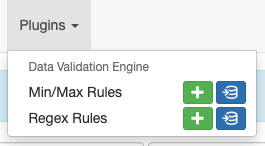
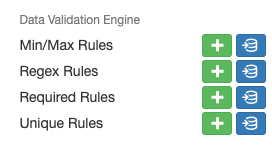
updated docs and release notes

diff --git a/docs/user/app_use_cases.md b/docs/user/app_use_cases.md
@@ -2,34 +2,21 @@
 
 ## General Usage
 
-The data validation engine plugin offers a set of user definable rules which are used to enforce business constraints on the data in Nautobot. These rules are tied to particular models and each rule is meant to enforce one aspect of a business use case. There are currently two supported rule types, regular expressions, and min/max numeric rules.
+The data validation engine app offers a set of user definable rules which are used to enforce business constraints on the data in Nautobot. These rules are tied to particular models and each rule is meant to enforce one aspect of a business use case.
+
+Supported rule types include:
+- Regular expression
+- Min/max value
+- Required fields
+- Unique values
 
 ![Dropdown](../images/dropdown.png)
 
 ## Use-cases and common workflows
 
-### Regular Expression Rules
-
-![Regex Rules List](../images/regex-rules-list.png)
-
-Each rule is defined with these fields:
-
-* name - A unique name for the rule.
-* enabled - A boolean to toggle enforcement of the rule on and off.
-* content type - The Nautobot model to which the rule should apply (device, site, etc.).
-* field - The name of the character based field on the model to which the regular expression is validated.
-* regular expression - The body of the regular expression used for validation.
-* error message - An optional error message to display to the use when validation fails. By default, a message indicating validation against the defined regular expression has failed is shown.
-
-![Regex Rules Edit](../images/regex-rules-edit.png)
-
-In this example, a device hostname validation rule has been created and prevents device records from being created or updated that do not conform to the naming standard.
-
-![Regex Rules Enforcement](../images/regex-rules-enforcement.png)
-
 ### Min/Max Rules
 
-![Min/Max List](../images/min-max-rules-list.png)
+![Min/Max Rules List](../images/min-max-rules-list.png)
 
 Each rule is defined with these fields:
 
@@ -46,3 +33,69 @@ Each rule is defined with these fields:
 In this example, a max value for VLAN IDs has been configured, preventing VLANs greater than 3999 from being created.
 
 ![Min/Max Rules Enforcement](../images/min-max-rules-enforcement.png)
+
+### Regular Expression Rules
+
+![Regex Rules List](../images/regex-rules-list.png)
+
+Each rule is defined with these fields:
+
+* name - A unique name for the rule.
+* enabled - A boolean to toggle enforcement of the rule on and off.
+* content type - The Nautobot model to which the rule should apply (device, site, etc.).
+* field - The name of the character based field on the model to which the regular expression is validated.
+* regular expression - The body of the regular expression used for validation.
+* context processing - A boolean to toggel Jinja2 context processing of the regular expression prior to evaliation
+* error message - An optional error message to display to the use when validation fails. By default, a message indicating validation against the defined regular expression has failed is shown.
+
+![Regex Rules Edit](../images/regex-rules-edit.png)
+
+In this example, a device hostname validation rule has been created and prevents device records from being created or updated that do not conform to the naming standard.
+
+![Regex Rules Enforcement](../images/regex-rules-enforcement.png)
+
+Regex rules may also support complex Jinja2 rendering called context processing which allows for the regular expression itself to by dynamically generated based on the context of the data it is validating.
+
+In this example the name of a device must start with the first three characters of the name of the site to which the device belongs. The dynamic nature of the Jinja2 rendering means that the site name can be anything, the enforcement action is simply the the given device matches its asigned site.
+
+![Regex Rules Jinja2 Context Processing](../images/regex-rules-jinja2-context-processing.png)
+
+!!! warning
+    If there is an exception while rendering the Jinja2 template or the resulting regular expression string is invalid, data validation agasint the rule will fail and users will be instructed to either fix the rule or disable it before the data may be saved.
+
+### Required Rules
+
+![Required List](../images/required-rules-list.png)
+
+Each rule is defined with these fields:
+
+* name - A unique name for the rule.
+* enabled - A boolean to toggle enforcement of the rule on and off.
+* content type - The Nautobot model to which the rule should apply (device, site, etc.).
+* field - The name of the field on the Nautobot model which should always be required.
+* error message - An optional error message to display to the use when validation fails. By default, a message indicating the field may not be left blank is shown.
+
+![Required Rules Edit](../images/required-rules-edit.png)
+
+In this example, site objects should always have a description populated.
+
+![Required Rules Enforcement](../images/required-rules-enforcement.png)
+
+### Unique Rules
+
+![Unique List](../images/required-rules-list.png)
+
+Each rule is defined with these fields:
+
+* name - A unique name for the rule.
+* enabled - A boolean to toggle enforcement of the rule on and off.
+* content type - The Nautobot model to which the rule should apply (device, site, etc.).
+* field - The name of the field on the Nautobot model which should always be required.
+* max instances - The total number of records that may have the same unique value for the given field. Default of 1.
+* error message - An optional error message to display to the use when validation fails. By default, a message indicating the value already exists on another record or set of records, as determined by max instances.
+
+![Unique Rules Edit](../images/required-rules-edit.png)
+
+In this example, sites enforce that the assigned ASN is unique across all other sites.
+
+![Unique Rules Enforcement](../images/required-rules-enforcement.png)

diff --git a/README.md b/README.md
@@ -13,23 +13,37 @@
 
 ## Overview
 
-A plugin for [Nautobot](https://github.com/nautobot/nautobot) with a UI to build custom data validation rules for Source of Truth data.
+An app for [Nautobot](https://github.com/nautobot/nautobot) with a UI to build custom data validation rules for Source of Truth data.
 
-The data validation engine plugin offers a set of user definable rules which are used to enforce business constraints on the data in Nautobot. These rules are tied to particular models and each rule is meant to enforce one aspect of a business use case. There are currently two supported rule types, regular expressions, and min/max numeric rules.
+The data validation engine app offers a set of user definable rules which are used to enforce business constraints on the data in Nautobot. These rules are tied to particular models and each rule is meant to enforce one aspect of a business use case.
+
+Supported rule types include:
+- Regular expression
+- Min/max value
+- Required fields
+- Unique values
 
 ![Dropdown](https://raw.githubusercontent.com/nautobot/nautobot-plugin-data-validation-engine/develop/docs/images/dropdown.png)
 
 ### Screenshots
 
-More screenshots can be found in the [Using the App](https://docs.nautobot.com/projects/data-validation/en/latest/user/app_use_cases/) page in the documentation. Here's a quick overview of some of the plugin's added functionality:
+More screenshots can be found in the [Using the App](https://docs.nautobot.com/projects/data-validation/en/latest/user/app_use_cases/) page in the documentation. Here's a quick overview of some of the app's added functionality:
+
+**Min/Max Rules**
+
+![Min/Max List](https://raw.githubusercontent.com/nautobot/nautobot-plugin-data-validation-engine/develop/docs/images/min-max-rules-list.png)
 
 **Regular Expression Rules**
 
 ![Regex Rules List](https://raw.githubusercontent.com/nautobot/nautobot-plugin-data-validation-engine/develop/docs/images/regex-rules-list.png)
 
-**Min/Max Rules**
+**Rquired Rules**
 
-![Min/Max List](https://raw.githubusercontent.com/nautobot/nautobot-plugin-data-validation-engine/develop/docs/images/min-max-rules-list.png)
+![Required Rules List](https://raw.githubusercontent.com/nautobot/nautobot-plugin-data-validation-engine/develop/docs/images/required-rules-list.png)
+
+**Unique Rules**
+
+![Unique Rules List](https://raw.githubusercontent.com/nautobot/nautobot-plugin-data-validation-engine/develop/docs/images/unique-rules-list.png)
 
 ## Try it out!
 

diff --git a/docs/admin/release_notes/version_2.0.md b/docs/admin/release_notes/version_2.0.md
@@ -4,14 +4,22 @@ This document describes all new features and changes in the release `2.0`. The f
 
 ## Release Overview
 
-This release contains major new rule types and changes to UI behaviour
+This release contains major new rule types and changes to UI & API behaviour
 
 ## [v2.0.0] - TBD
 
 ### Added
 
-
+- [#15] - Added the required field validation rule type
+- [#20] - Added the unique field validation rule type
+- [#28] - Added support for Jinja2 template context rendering in regular expression validation rules
 
 ### Changed
 
-
+- The UI navigation dropdown menu items have been moved to the Extensibility tab
+- The UI URL routes for regular expression and min/max rules have been changed:
+    - Regular expression rules are now located at `/plugins/data-validation-engine/regex-rules/`
+    - Min/max rules are now located at `/plugins/data-validation-engine/min-max-rules/`
+- The REST API routes for regular expression and min/max rules have been changed:
+    - Regular expression rules are now located at `/api/plugins/data-validation-engine/regex-rules/`
+    - Min/max rules are now located at `/api/plugins/data-validation-engine/min-max-rules/`

diff --git a/docs/user/app_overview.md b/docs/user/app_overview.md
@@ -1,11 +1,14 @@
 # App Overview
 
-!!! note
-    Throughout this documentation, the terms "app" and "plugin" will be used interchangeably.
-
 ## Description/Overview
 
-The data validation engine plugin offers a set of user definable rules which are used to enforce business constraints on the data in Nautobot. These rules are tied to particular models and each rule is meant to enforce one aspect of a business use case. There are currently two supported rule types, regular expressions, and min/max numeric rules.
+The data validation engine app offers a set of user definable rules which are used to enforce business constraints on the data in Nautobot. These rules are tied to particular models and each rule is meant to enforce one aspect of a business use case.
+
+Supported rule types include:
+- Regular expression
+- Min/max value
+- Required fields
+- Unique values
 
 ## Audience (User Personas) - Who should use this App?
 

diff --git a/docs/user/app_getting_started.md b/docs/user/app_getting_started.md
@@ -13,4 +13,4 @@ One the App is installed, under "Extensibility" tab, you will find the supported
 There you can list the existing validation rules of each type, or create them (one by one, or dumping them).
 
 !!! note
-    The validation rules only take effect for new data entries, not for previous existing data. So, when you create a new object, for instance, a `ipam.VLAN`, is when the existing validation rules will be enforced.
+    The validation rules only take effect for new data entries, not for previous existing data. So, when you create a new object, for instance, a `ipam.VLAN`, is when the existing validation rules will be enforced. Validation rules will be enforced when explicitly editing existing data.

diff --git a/docs/dev/extending.md b/docs/dev/extending.md
@@ -2,4 +2,3 @@
 
 Extending the application is welcome, however it is best to open an issue first, to ensure that a PR would be accepted and makes sense in terms of features and design.
 
-A natural progression of the tool is to allow for config remediation and config deployment. These are on the road map, but without a commited date.
